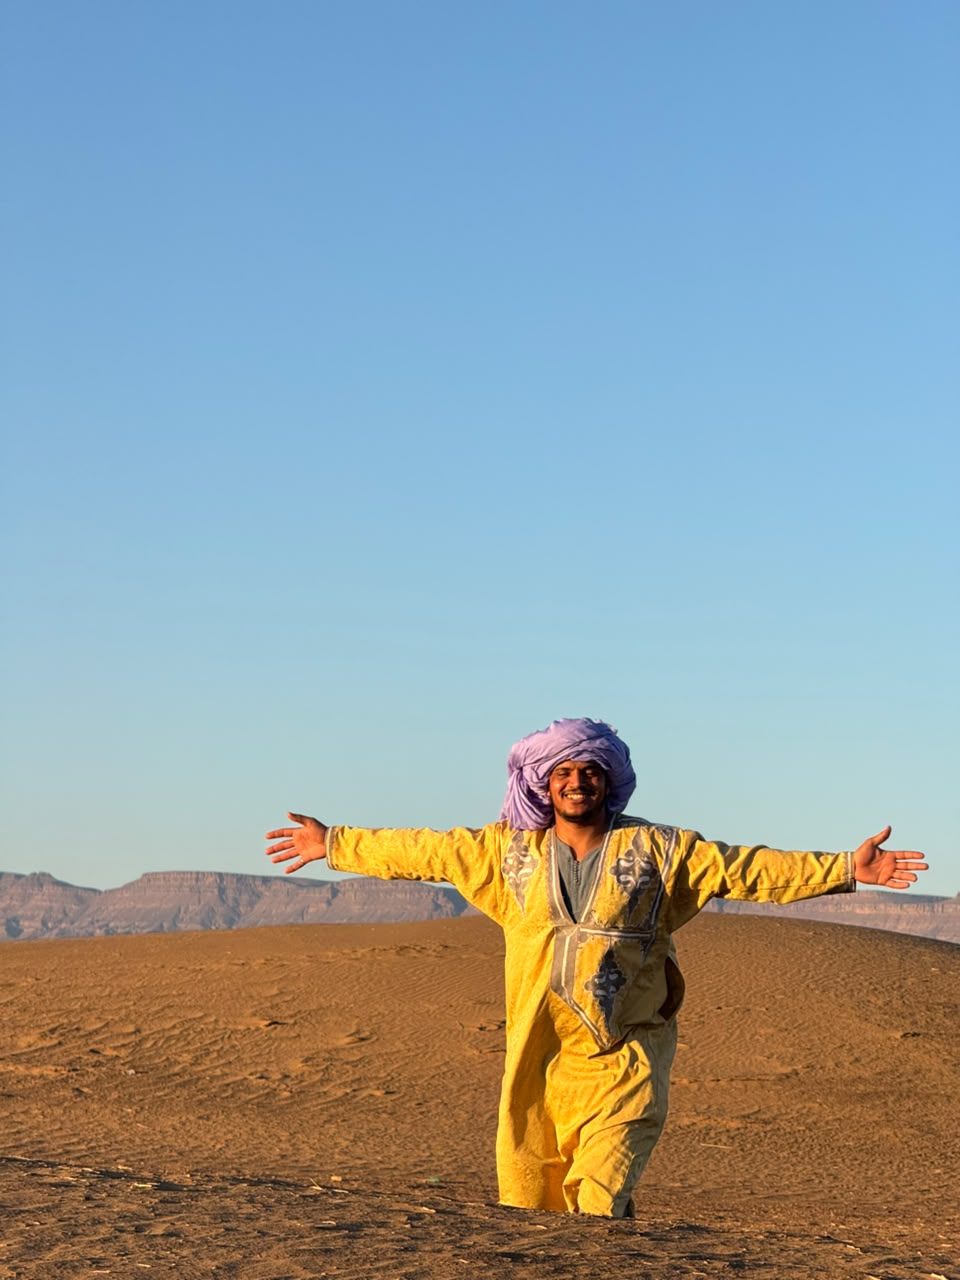
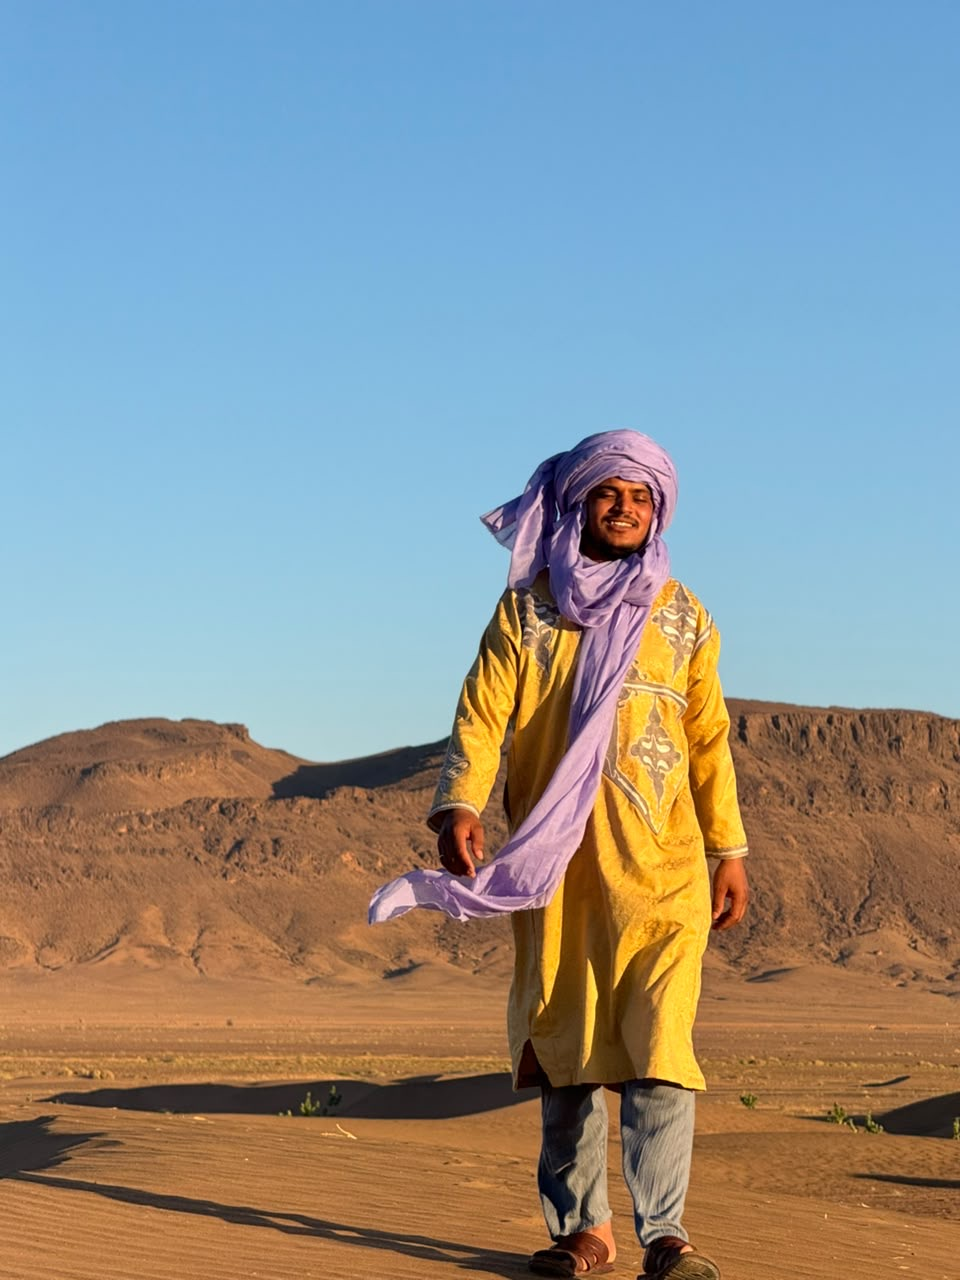
Fix Salem photo, journal-clanak titles, yoga-sati card links

diff --git a/yoga-sati.html b/yoga-sati.html
@@ -735,7 +735,7 @@ height="0" width="0" style="display:none;visibility:hidden"></iframe></noscript>
 
     <div class="class-types">
 
-      <div class="class-type-card featured" href="#">
+      <a class="class-type-card featured" href="#raspored" style="text-decoration:none;color:inherit;display:block;">
         <div class="class-type-left">
           <div class="class-type-num">01</div>
           <div class="class-type-name">
@@ -754,9 +754,9 @@ height="0" width="0" style="display:none;visibility:hidden"></iframe></noscript>
             <span lang="en">All levels</span>
           </div>
         </div>
-      </div>
+      </a>
 
-      <div class="class-type-card" href="#">
+      <a class="class-type-card" href="#raspored" style="text-decoration:none;color:inherit;display:block;">
         <div class="class-type-left">
           <div class="class-type-num">02</div>
           <div class="class-type-name">
@@ -775,9 +775,9 @@ height="0" width="0" style="display:none;visibility:hidden"></iframe></noscript>
             <span lang="en">All levels</span>
           </div>
         </div>
-      </div>
+      </a>
 
-      <div class="class-type-card" href="#">
+      <a class="class-type-card" href="#raspored" style="text-decoration:none;color:inherit;display:block;">
         <div class="class-type-left">
           <div class="class-type-num">03</div>
           <div class="class-type-name">
@@ -796,9 +796,9 @@ height="0" width="0" style="display:none;visibility:hidden"></iframe></noscript>
             <span lang="en">All levels</span>
           </div>
         </div>
-      </div>
+      </a>
 
-      <div class="class-type-card" href="#">
+      <a class="class-type-card" href="mailto:[email redacted]?subject=Privatni%20sat%20s%20Petrom" style="text-decoration:none;color:inherit;display:block;">
         <div class="class-type-left">
           <div class="class-type-num">04</div>
           <div class="class-type-name">
@@ -817,7 +817,7 @@ height="0" width="0" style="display:none;visibility:hidden"></iframe></noscript>
             <span lang="en">On request</span>
           </div>
         </div>
-      </div>
+      </a>
 
     </div>
   </div>

diff --git a/journal-clanak.html b/journal-clanak.html
@@ -735,7 +735,7 @@ const ARTICLES = {
   /* ── 2 · HATHA TIJELO ──────────────────────────────────── */
   'hatha-tijelo': {
     catHr: 'Pokret', catEn: 'Movement', catClass: 'cat-pokret',
-    titleHr: 'Što hatha praksa zapravo traži od tijela.',
+    titleHr: 'Što hatha yoga tiho šapće tijelu?',
     titleEn: 'What hatha practice actually asks of the body.',
     author: 'Petra', authorInitials: 'PE', authorBg: 'var(--mint)',
     dateHr: '15 svi 2026', dateEn: '15 May 2026', readtime: 8,
@@ -1134,7 +1134,7 @@ const ARTICLES = {
   /* ── 9 · TAGINE BEZ RECEPTA ────────────────────────────── */
   'tagine-bez-recepta': {
     catHr: 'Hrana', catEn: 'Food', catClass: 'cat-food',
-    titleHr: 'Salemov tagine bez recepta.',
+    titleHr: 'Salemov tagine: Umjetnost kuhanja po osjećaju.',
     titleEn: "Salem's tagine without a recipe.",
     author: 'Salem', authorInitials: 'SA', authorBg: 'var(--clay-light)',
     dateHr: '28 trav 2026', dateEn: '28 Apr 2026', readtime: 8,